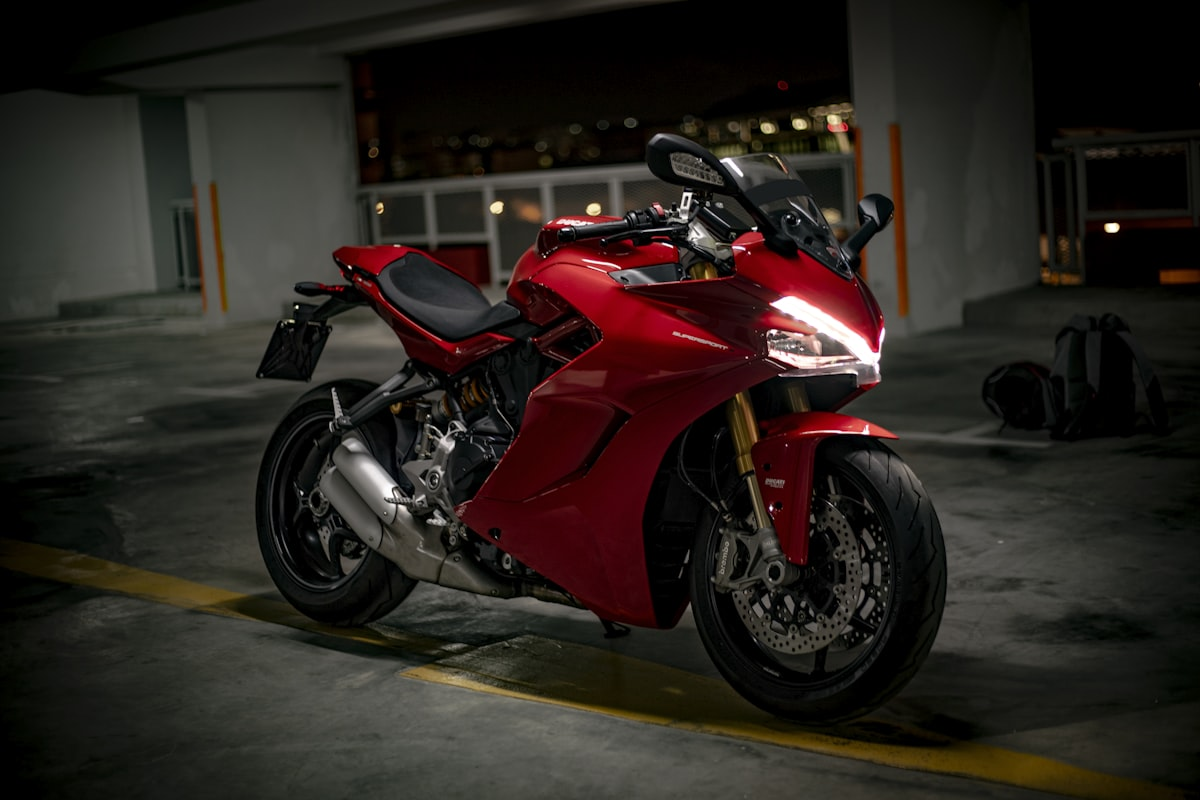
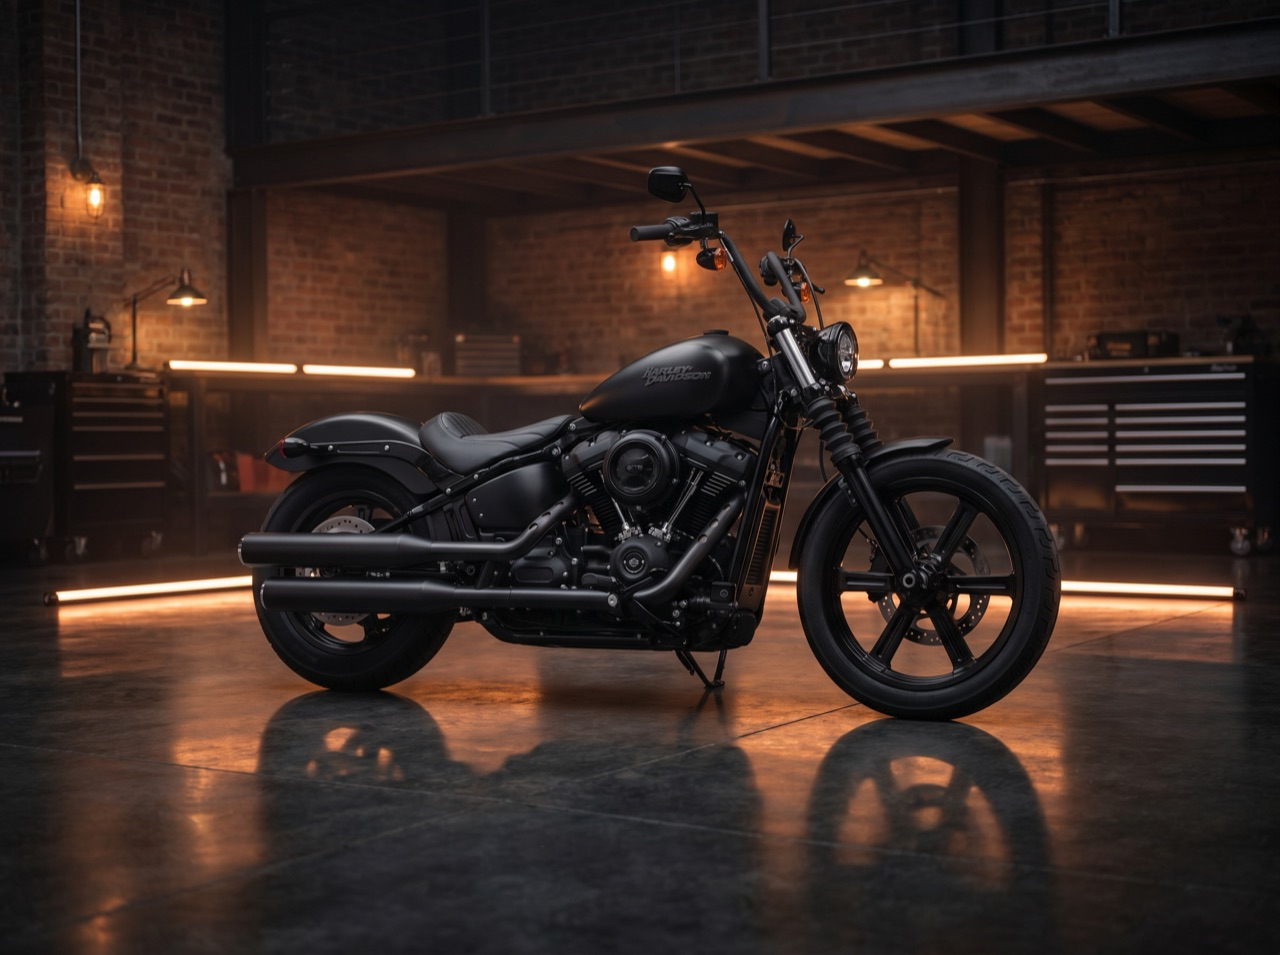
feat(onboarding): brand-correct bike photos for top 10 makes
The per-make photo set was largely broken — bmw.jpg was a Harley,
harley-davidson.jpg was a Ducati, ducati.jpg was a casino photo, and
triumph.jpg was a Yamaha; only ktm.jpg was correct. Most riders (Honda is the
#1 make by registered bikes) had no photo at all.

Regenerated a cohesive set covering the top 10 makes by DB bike count
(Honda, BMW, Kawasaki, Yamaha, Suzuki, KTM, Harley-Davidson, Triumph, Ducati,
Royal Enfield) in the MotoVault dark/warm premium aesthetic. KTM kept as-is.
Wired the 5 newly-covered makes into bike-images.ts.

diff --git a/apps/mobile/src/config/bike-images.ts b/apps/mobile/src/config/bike-images.ts
@@ -2,15 +2,21 @@ import type { ImageSourcePropType } from 'react-native';
 
 /**
  * Per-make bike photography for the Reveal dossier + Commitment medallion.
- * Five flagship makes ship a real photo; everything else falls back to a
- * neutral default. Keys are normalized make names (lowercase, spaces→dashes).
+ * Covers the top 10 makes by registered bike count (see DB make distribution);
+ * everything else falls back to a neutral default. Keys are normalized make
+ * names (lowercase, spaces→dashes).
  */
 const BIKE_IMAGES: Record<string, ImageSourcePropType> = {
+  honda: require('../assets/images/bikes/honda.jpg'),
   bmw: require('../assets/images/bikes/bmw.jpg'),
-  'harley-davidson': require('../assets/images/bikes/harley-davidson.jpg'),
+  kawasaki: require('../assets/images/bikes/kawasaki.jpg'),
+  yamaha: require('../assets/images/bikes/yamaha.jpg'),
+  suzuki: require('../assets/images/bikes/suzuki.jpg'),
   ktm: require('../assets/images/bikes/ktm.jpg'),
-  ducati: require('../assets/images/bikes/ducati.jpg'),
+  'harley-davidson': require('../assets/images/bikes/harley-davidson.jpg'),
   triumph: require('../assets/images/bikes/triumph.jpg'),
+  ducati: require('../assets/images/bikes/ducati.jpg'),
+  'royal-enfield': require('../assets/images/bikes/royal-enfield.jpg'),
 };
 
 const DEFAULT_BIKE_IMAGE: ImageSourcePropType = require('../assets/images/bikes/default.jpg');
